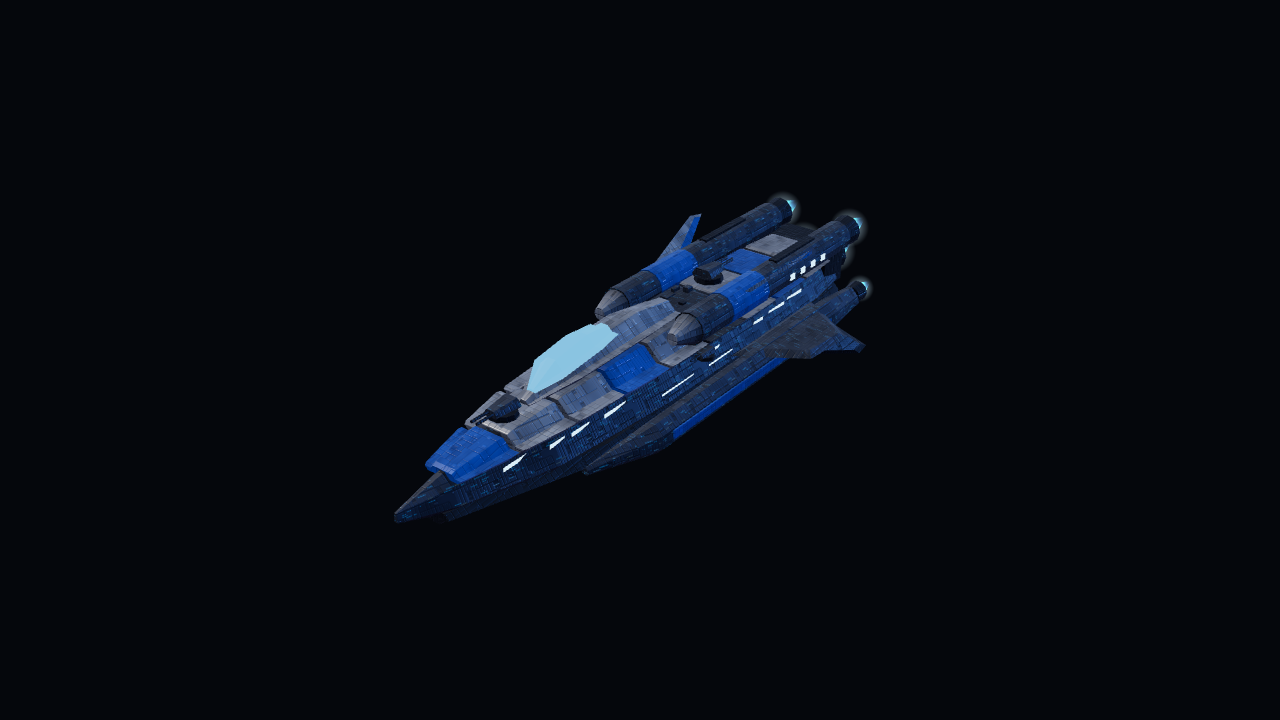
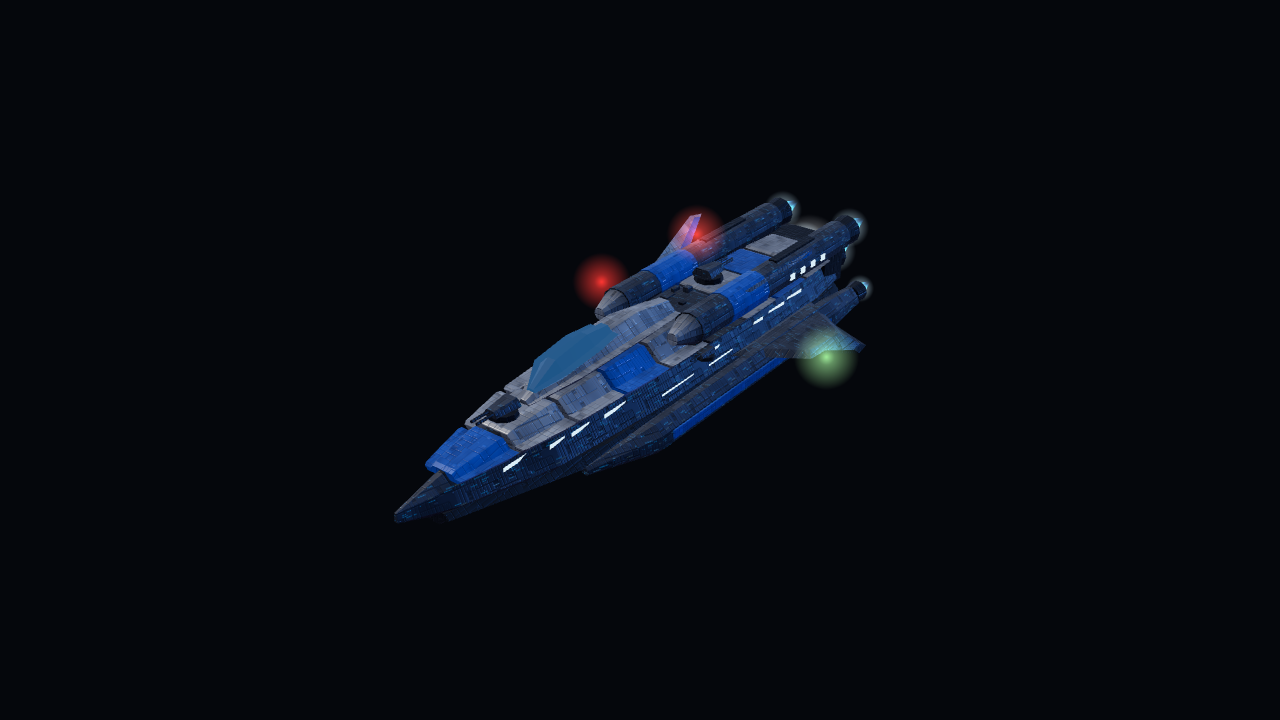
glb fleet integration: 15 hulls, far-LOD from glb, faction variant parts on glb hulls, carrier bays from hangar empties, glass canopies, no duplicate turrets (shipyard + in-game), GLB_DEFAULT go-live switch, lineup preload

diff --git a/src/glbhulls.js b/src/glbhulls.js
@@ -8,32 +8,34 @@ import * as THREE from 'three';
 import { GLTFLoader } from '../vendor/addons/loaders/GLTFLoader.js';
 import { MeshoptDecoder } from '../vendor/addons/libs/meshopt_decoder.module.js';
 
-export const GLB_IDS = ['scout', 'interceptor', 'strike', 'corvette', 'gunship', 'frigate', 'destroyer', 'dreadnought'];
+export const GLB_IDS = ['scout', 'interceptor', 'strike', 'bomber', 'corvette', 'gunship', 'engineer', 'explorer', 'frigate', 'destroyer', 'icarrier', 'cruiser', 'battlecruiser', 'fleetcarrier', 'dreadnought'];
+// GO-LIVE SWITCH: set to true to make the Blender hulls the default for everyone (?hulls=proc still opts out).
+export const GLB_DEFAULT = false;
 export const GLB_UNIT = 1 / 5; // Blender metres -> game units (1 u = 5 m)
 const P = new URLSearchParams(typeof location !== 'undefined' ? location.search : '');
 const q = P.get('hulls');
 try { if (q === 'glb' || q === 'proc') localStorage.setItem('sf-hulls', q); } catch (e) { /* private mode */ }
 let stored = null; try { stored = localStorage.getItem('sf-hulls'); } catch (e) { /* */ }
-export const GLB = { enabled: q ? q === 'glb' : stored === 'glb', cache: {}, failed: {}, stats: {}, loading: null };
+export const GLB = { enabled: q ? q === 'glb' : stored ? stored === 'glb' : GLB_DEFAULT, cache: {}, failed: {}, stats: {}, loading: null };
 
 export function preloadGlbHulls(ids = GLB_IDS, base = 'models/', timeoutMs = 15000) {
   if (GLB.loading) return GLB.loading;
   const loader = new GLTFLoader(); loader.setMeshoptDecoder(MeshoptDecoder);
   const one = (id) => new Promise((res) => {
     const t = setTimeout(() => { GLB.failed[id] = 'timeout'; res(); }, timeoutMs);
-    loader.load(base + id + '.glb?v=bt2', (g) => { clearTimeout(t); try { GLB.cache[id] = prep(g.scene); } catch (e) { GLB.failed[id] = String(e); } res(); },
+    loader.load(base + id + '.glb?v=bt3', (g) => { clearTimeout(t); try { GLB.cache[id] = prep(g.scene); } catch (e) { GLB.failed[id] = String(e); } res(); },
       undefined, (e) => { clearTimeout(t); GLB.failed[id] = String(e && e.message || e); console.warn('glb hull fallback', id, e); res(); });
   });
   GLB.loading = Promise.all(ids.map(one)).then(() => GLB);
   return GLB.loading;
 }
 function prep(scene) {
-  scene.updateMatrixWorld(true); const engines = [], hard = []; let tris = 0; const meshes = [];
+  scene.updateMatrixWorld(true); const engines = [], hard = [], bays = []; let tris = 0; const meshes = [];
   const v = new THREE.Vector3();
   scene.traverse((o) => {
     if (o.isMesh) { meshes.push(o); const gm = o.geometry; tris += (gm.index ? gm.index.count : gm.attributes.position.count) / 3; }
-    else if (/^engine_/.test(o.name) || /^hard_/.test(o.name)) { o.getWorldPosition(v); const s = (o.userData && o.userData.size) || o.scale.x;
-      const p = { x: v.x * GLB_UNIT, y: v.y * GLB_UNIT, z: v.z * GLB_UNIT, r: ((o.userData && o.userData.size) || 1) * GLB_UNIT }; (o.name[0] === 'e' ? engines : hard).push(p); }
+    else if (/^(engine|hard|bay)_/.test(o.name)) { o.getWorldPosition(v);
+      const p = { x: v.x * GLB_UNIT, y: v.y * GLB_UNIT, z: v.z * GLB_UNIT, r: ((o.userData && o.userData.size) || 1) * GLB_UNIT }; (o.name[0] === 'e' ? engines : o.name[0] === 'b' ? bays : hard).push(p); }
   });
   // bake to plain float geometry in game units at identity transforms: the damage shader works in object space
   // (vDmgP = position), so quantized/scaled meshopt nodes would put its noise at the wrong scale
@@ -46,24 +48,47 @@ function prep(scene) {
     g.applyMatrix4(new THREE.Matrix4().multiplyMatrices(S, m.matrixWorld)); g.computeBoundingSphere();
     const mm = new THREE.Mesh(g, m.material); mm.name = m.name; out.add(mm);
   }
-  return { scene: out, engines, hard, tris: Math.round(tris), meshes: meshes.length };
+  return { scene: out, engines, hard, bays, tris: Math.round(tris), meshes: meshes.length };
 }
 const SLOT = { H: 'H', P: 'P', D: 'D', A: 'A', C: 'W', W: 'Wn', G: 'G' };
 // glb meshes carry baked AO / panel-tint vertex colours: they get a per-material clone with vertexColors on, a little
 // less metalness and a lift in base colour, so the stacked decks and plate seams read under the game's single sun
 // (the shared procedural materials can't turn vertexColors on: meshes without a colour attribute would go black)
 const VC = new WeakMap();
+let GLASS = null; // proper canopy glass for glb hulls (the scheme 'W' material is a warm lit-window tone on some paints)
+function glass() {
+  return GLASS ||= new THREE.MeshStandardMaterial({ name: 'glbGlass', color: 0x0d1828, metalness: 0.9, roughness: 0.07, emissive: new THREE.Color(0.05, 0.16, 0.34), emissiveIntensity: 0.55, envMapIntensity: 1.8 });
+}
+// hide a bolt-on turret's own meshes but keep the object (aim / muzzle origin); LOD toggles only direct children,
+// so hidden grandchildren stay hidden when the hull comes back from the far LOD
+export function hideTurret(t) { t.traverse((o) => { if (o !== t && (o.isMesh || o.isSprite)) o.visible = false; }); t.userData.glbHidden = true; }
+// far LOD from the glb: one merged, vertex-coloured, non-indexed geometry per hull + paint (windows/glass dropped)
+const LO = new Map();
+function makeLo(id, c, M, key) {
+  const k = id + ':' + key; if (LO.has(k)) return LO.get(k);
+  const pos = [], nor = [], col = []; const cc = new THREE.Color();
+  for (const m of c.scene.children) {
+    const slot = m.material && m.material.name; if (slot === 'W' || slot === 'C') continue;
+    const base = M[SLOT[slot] || 'H'] || M.H; cc.copy(base.color || new THREE.Color(1, 1, 1));
+    if (base.isMeshBasicMaterial) { const mx = Math.max(cc.r, cc.g, cc.b, 1); cc.multiplyScalar(1 / mx); } else cc.multiplyScalar(1.1);
+    const g = m.geometry.index ? m.geometry.toNonIndexed() : m.geometry; const P = g.attributes.position, N = g.attributes.normal, V = g.attributes.color;
+    for (let i = 0; i < P.count; i++) { pos.push(P.getX(i), P.getY(i), P.getZ(i)); nor.push(N.getX(i), N.getY(i), N.getZ(i)); const a = V ? V.getX(i) : 1; col.push(cc.r * a, cc.g * a, cc.b * a); }
+  }
+  const g = new THREE.BufferGeometry(); g.setAttribute('position', new THREE.Float32BufferAttribute(pos, 3)); g.setAttribute('normal', new THREE.Float32BufferAttribute(nor, 3)); g.setAttribute('color', new THREE.Float32BufferAttribute(col, 3));
+  g.computeBoundingSphere(); g.userData.shared = true; LO.set(k, g); return g;
+}
 function vcMat(m) {
   if (!m || !m.isMeshStandardMaterial) return m; let c = VC.get(m); if (c) return c;
   c = m.clone(); c.vertexColors = true; c.metalness = Math.min(c.metalness, 0.62); c.color.multiplyScalar(1.3); c.envMapIntensity = (m.envMapIntensity || 1) * 1.15;
   c.name = (m.name || '') + '+vc'; VC.set(m, c); return c;
 }
 // replace the procedural meshes of a built hull group with the glb; returns {engines, hard} in game units or null
-export function applyGlb(id, group, M, engR) {
+export function applyGlb(id, group, M, engR, schemeKey) {
   if (!GLB.enabled) return null; const c = GLB.cache[id]; if (!c) return null;
-  for (let i = group.children.length - 1; i >= 0; i--) group.remove(group.children[i]);
+  for (let i = group.children.length - 1; i >= 0; i--) if (group.children[i].name !== 'navLights') group.remove(group.children[i]);
   const root = c.scene.clone(true); root.name = 'glb:' + id;
-  root.traverse((o) => { if (!o.isMesh) return; const n = o.material && o.material.name; const key = SLOT[n] || 'H'; const base = M[key] || M.H; o.material = o.geometry.attributes.color ? vcMat(base) : base; o.castShadow = o.receiveShadow = false; });
+  root.traverse((o) => { if (!o.isMesh) return; const n = o.material && o.material.name; const key = SLOT[n] || 'H'; const base = M[key] || M.H; o.material = n === 'C' ? glass() : o.geometry.attributes.color ? vcMat(base) : base; o.castShadow = o.receiveShadow = false; });
   group.add(root);
-  return { engines: c.engines.map((e) => ({ ...e, r: e.r || engR || 0.3 })), hard: [...c.hard].sort((a, b) => b.r - a.r).map((h) => ({ x: h.x, y: h.y, z: h.z, size: h.r * 1.4 })) };
+  return { engines: c.engines.map((e) => ({ ...e, r: e.r || engR || 0.3 })), hard: [...c.hard].sort((a, b) => b.r - a.r).map((h) => ({ x: h.x, y: h.y, z: h.z, size: h.r * 1.4 })),
+    bays: c.bays.map((b) => ({ x: b.x, y: b.y, z: b.z, size: b.r })), lo: makeLo(id, c, M, schemeKey || 'x') };
 }

diff --git a/src/hulls.js b/src/hulls.js
@@ -4,7 +4,7 @@
 import * as THREE from 'three';
 import { Kit, materials, hullTextures, makeTurret } from './models.js?v=9';
 import { mulberry } from './util.js?v=9';
-import { applyGlb } from './glbhulls.js?v=9';
+import { applyGlb, hideTurret } from './glbhulls.js?v=9';
 
 export const UNIT_M = 5;
 export const HULL_CLASSES = { small: 'Small Ships', medium: 'Medium Ships', large: 'Large Ships', special: 'Specialized Ships', capital: 'Capital Ships', titan: 'Titan Class' };
@@ -354,17 +354,20 @@ export function buildHull(id, opts = {}) {
   const o = B[id](k, M, rng); const v = M.scheme.variant; if (v && opts.variant !== false) variantParts(k, M, v, H);
   const lo = k.buildLo(); const group = k.build(); group.name = 'hull:' + id;
   const sc = (p) => ({ ...p, x: p.x * S, y: p.y * S, z: p.z * S, size: (p.size || 1) * S });
-  let hard = (o.hard || []).map(sc), pd = (o.pd || []).map(sc); const bays = (o.bays || []).map(sc);
+  let hard = (o.hard || []).map(sc), pd = (o.pd || []).map(sc); let bays = (o.bays || []).map(sc); let loG = lo;
   // blender-test: swap in the Blender glb (same hitboxes/stats); modelled turrets replace the bolt-on ones
-  const gl = opts.glb === false ? null : applyGlb(id, group, M, k.engines.length ? Math.max(...k.engines.map((e) => e.r)) : 0.3);
-  if (gl) { if (gl.engines.length) k.engines = gl.engines; if (gl.hard.length >= hard.length) hard = gl.hard; pd = []; group.userData.glb = true; }
+  const gl = opts.glb === false ? null : applyGlb(id, group, M, k.engines.length ? Math.max(...k.engines.map((e) => e.r)) : 0.3, sid);
+  if (gl) {
+    if (gl.engines.length) k.engines = gl.engines; if (gl.hard.length >= hard.length) hard = gl.hard; pd = []; if (gl.bays.length) bays = gl.bays; if (gl.lo) loG = gl.lo; group.userData.glb = true;
+    if (v && opts.variant !== false) { const kv = new Kit(S); kv.ch = k.ch; kv.pal = k.pal; kv.core = []; variantParts(kv, M, v, H); const vg = kv.build(); for (const c of [...vg.children]) { c.name = c.name || 'variant'; group.add(c); } } // faction variant parts on top of the glb
+  }
   if (opts.turrets === 'enemy') {
     const pal = { D: M.D, A: M.A, H: M.H }; const n = Math.max(1, Math.min(hard.length, H.slots + 2));
-    for (let i = 0; i < n; i++) { const h = hard[i]; const tu = makeTurret(H.rank >= 4 ? 'cannon' : i % 2 ? 'laser' : 'cannon', h.size, pal); tu.position.set(h.x, h.y, h.z); tu.name = 'eturret'; if (gl) tu.visible = false; group.add(tu); } // glb hulls carry modelled turrets
+    for (let i = 0; i < n; i++) { const h = hard[i]; const tu = makeTurret(H.rank >= 4 ? 'cannon' : i % 2 ? 'laser' : 'cannon', h.size, pal); tu.position.set(h.x, h.y, h.z); tu.name = 'eturret'; if (gl) hideTurret(tu); group.add(tu); } // glb hulls carry modelled turrets
     for (const h of pd) { const tu = makeTurret('cannon', h.size, pal); tu.position.set(h.x, h.y, h.z); group.add(tu); }
   }
   const segs = hullSegs(H);
-  return { group, lo, hardpoints: opts.turrets === 'enemy' ? hard.slice(0, Math.max(1, Math.min(hard.length, H.slots + 2))) : hard, pointDefense: pd, bays, engines: k.engines, length: H.len, radius: H.radius, bound: H.bound, beam: H.beam, segs, mass: H.mass, hull: id, scheme: sid, engColor: M.eng };
+  return { group, lo: loG, hardpoints: opts.turrets === 'enemy' ? hard.slice(0, Math.max(1, Math.min(hard.length, H.slots + 2))) : hard, pointDefense: pd, bays, engines: k.engines, length: H.len, radius: H.radius, bound: H.bound, beam: H.beam, segs, mass: H.mass, hull: id, scheme: sid, engColor: M.eng };
 }
 // hitbox: a chain of circles along the keel for long hulls (the bounding circle would be far too generous on a 720 m titan)
 export function hullSegs(H) {

diff --git a/blender-test.html b/blender-test.html
@@ -15,7 +15,7 @@ canvas{display:block;width:100vw;height:100vh}
 <canvas id="c"></canvas><div id="div"></div>
 <div id="ui">
  <b>Blender hull test</b>
- <label>Hull <select id="hull"><option>scout</option><option>interceptor</option><option>strike</option><option>corvette</option><option>gunship</option><option>frigate</option><option>destroyer</option><option>dreadnought</option></select></label>
+ <label>Hull <select id="hull"><option>scout</option><option>interceptor</option><option>strike</option><option>bomber</option><option>corvette</option><option>gunship</option><option>engineer</option><option>explorer</option><option>frigate</option><option>destroyer</option><option>icarrier</option><option>cruiser</option><option>battlecruiser</option><option>fleetcarrier</option><option>dreadnought</option></select></label>
  <label>Paint <select id="paint"></select></label>
  <label>View <select id="view"><option>3q</option><option>concept</option><option>side</option><option>top</option><option>front</option><option>rear</option></select></label>
  <label>Damage <input id="dmg" type="range" min="0" max="1" step="0.05" value="0"></label>
@@ -58,7 +58,7 @@ function build() {
   const id = $('hull').value, paint = $('paint').value, opts = paint.startsWith('(') ? {} : { scheme: paint };
   for (let i = 0; i < 2; i++) {
     const S = L[i]; if (S.obj) S.scene.remove(S.obj);
-    const b = buildHull(id, { ...opts, glb: i === 1 ? undefined : false }); const o = b.group;
+    const b = buildHull(id, { ...opts, glb: i === 1 ? undefined : false, turrets: P.get('enemy') === '1' ? 'enemy' : undefined }); const o = b.group;
     if ($('flames').checked) { const fl = makeFlames(b.engines, b.engColor); o.add(fl.group); S.fl = fl; } else S.fl = null;
     S.D = ensureDamage(o); S.obj = o; S.b = b; S.scene.add(o);
   }
@@ -69,7 +69,7 @@ function build() {
 window.BT = { GLB, L, build, ready: false };
 for (const k of ['hull', 'paint', 'flames']) $(k).onchange = build;
 build();
-const CV = { scout: [0.55, 0.5, 0.72], interceptor: [0.55, 0.5, 0.72], strike: [0.55, 0.5, 0.72], corvette: [0.55, 0.5, 0.72], gunship: [0.55, 0.5, 0.72], frigate: [0.82, 0.3, 0.5], destroyer: [0.82, 0.3, 0.5], dreadnought: [0.85, 0.24, 0.48] };
+const CV = { scout: [0.55, 0.5, 0.72], interceptor: [0.55, 0.5, 0.72], strike: [0.55, 0.5, 0.72], bomber: [0.55, 0.5, 0.72], corvette: [0.55, 0.5, 0.72], gunship: [0.55, 0.5, 0.72], engineer: [0.55, 0.5, 0.72], explorer: [0.55, 0.5, 0.72], frigate: [0.82, 0.3, 0.5], destroyer: [0.82, 0.3, 0.5], icarrier: [0.72, 0.38, 0.6], cruiser: [0.8, 0.3, 0.52], battlecruiser: [0.85, 0.26, 0.48], fleetcarrier: [0.8, 0.3, 0.5], dreadnought: [0.85, 0.24, 0.48] };
 const SOLO = P.get('solo') === '1'; if (SOLO) { for (const id of ['l1', 'st']) document.getElementById(id).style.display = 'none'; document.getElementById('div').style.display = 'none'; document.getElementById('l0').style.display = 'none'; document.getElementById('ui').style.display = 'none'; }
 const VIEWS = { '3q': [0.85, 0.42, 1.0], side: [1, 0.08, 0.0001], top: [0.001, 1, 0.12], front: [0.35, 0.18, 1], rear: [0.55, 0.25, -1] };
 let t0 = performance.now(), ang = 0;

diff --git a/src/game.js b/src/game.js
@@ -20,6 +20,7 @@ import { Wrecks } from './structures.js?v=9';
 import { ExplosionManager, classify, PROFILES } from './explosions.js?v=9';
 import { HULLS, HULL_IDS, buildHull, ENEMY_HULL, FLAGSHIP_HULL, FACTION_PAINT, hullSegs, MAIN_PATH } from './hulls.js?v=9';
 import { HullLOD } from './lod.js?v=9';
+import { hideTurret } from './glbhulls.js?v=9';
 import { FlightModel, SpatialHash, collideCircles, sweptCircle, TIER_MASS, massOf, rockMass, assistValue } from './physics.js?v=9';
 
 export const STATION_SCALE = 2; // v8: the home station is built at capital-ship scale
@@ -414,9 +415,10 @@ export class Game {
     hps.forEach((h, i) => {
       if (i >= st.slots) return;
       const it = this.item(this.s.equip[i]);
-      if (!it) { const mount = makeTurret('cannon', (h.size || 1) * 0.6); mount.remove(mount.userData.barrel); mount.position.set(h.x, h.y, h.z); built.group.add(mount); return; }
+      const glbMount = built.group.userData.glb && !h.aux; // Blender hulls model their own turrets at the hardpoints
+      if (!it) { const mount = makeTurret('cannon', (h.size || 1) * 0.6); mount.remove(mount.userData.barrel); mount.position.set(h.x, h.y, h.z); if (glbMount) hideTurret(mount); built.group.add(mount); return; }
       const S = itemStats(it); const key = BEH_TURRET[S.beh]; const tur = makeTurret(key, (h.size || 1) * 1.05 * (1 + it.r * 0.03));
-      tur.position.set(h.x, h.y, h.z); built.group.add(tur); rarityRing(tur, it.r, RARITIES[it.r].rgb);
+      tur.position.set(h.x, h.y, h.z); if (glbMount) hideTurret(tur); built.group.add(tur); rarityRing(tur, it.r, RARITIES[it.r].rgb);
       const w = { key: S.beh, item: it, S, turret: tur, cd: rand(0, 0.3), target: null, retarget: 0, acc: 0, tick: 0, recoil: 0, heat: 0, over: 0, bz0: tur.userData.barrel.position.z, slot: i };
       if (S.beh === 'beam') { const c = S.beamRgb; w.beam = this.makeBeam(new THREE.Color(c[0], c[1], c[2]), new THREE.Color(c[0] * 0.08, c[1] * 0.12, c[2] * 0.2)); this.scene.add(w.beam); }
       p.weapons.push(w);

diff --git a/src/preview.js b/src/preview.js
@@ -31,7 +31,7 @@ export class Preview {
     const g = new THREE.Group(); let anim = null;
     if (kind === 'ship') { // v8: arg = hull index; the hull is shown at true scale next to a ghosted Scout for reference
       const id = HULL_IDS[arg] || 'scout'; const H = HULLS[id]; const b = buildHull(id); g.add(b.group);
-      b.hardpoints.slice(0, H.slots).forEach((h, i) => { const t = makeTurret(KIT[i % KIT.length], (h.size || 1) * 1.05, 'player'); t.position.set(h.x, h.y, h.z); t.rotation.y = (i % 2 ? 0.4 : -0.4); b.group.add(t); });
+      if (!b.group.userData.glb) b.hardpoints.slice(0, H.slots).forEach((h, i) => { // glb hulls show their modelled turrets const t = makeTurret(KIT[i % KIT.length], (h.size || 1) * 1.05, 'player'); t.position.set(h.x, h.y, h.z); t.rotation.y = (i % 2 ? 0.4 : -0.4); b.group.add(t); });
       for (const h of b.pointDefense || []) { const t = makeTurret('cannon', h.size, 'player'); t.position.set(h.x, h.y, h.z); b.group.add(t); }
       const fl = makeFlames(b.engines, b.engColor); fl.mat.uniforms.uPower.value = 0.8; for (const f of fl.flames) { f.mesh.scale.set(1, 1, f.r * 3); f.core.scale.set(1, 1, f.r * 1.7); f.sprite.scale.setScalar(f.r * 3); }
       b.group.add(fl.group); g.userData.flames = fl; g.userData.nav = b.group;

diff --git a/lineup.html b/lineup.html
@@ -24,6 +24,8 @@
 import * as THREE from 'three';
 import { HULLS, HULL_IDS, UNIT_M, buildHull, FACTION_PAINT, PAINT_NAMES } from './src/hulls.js?v=9';
 import { makeFlames, animateNavLights } from './src/models.js?v=9';
+import { GLB, preloadGlbHulls } from './src/glbhulls.js?v=9';
+if (GLB.enabled) { try { await preloadGlbHulls(); } catch (e) { /* procedural fallback */ } }
 const q = new URLSearchParams(location.search); const mode = q.get('mode') || 'lineup';
 const canvas = document.getElementById('c'); const R = new THREE.WebGLRenderer({ canvas, antialias: true, preserveDrawingBuffer: true });
 R.toneMapping = THREE.ACESFilmicToneMapping; R.toneMappingExposure = 1.1; R.outputColorSpace = THREE.SRGBColorSpace; R.setPixelRatio(Math.min(2, devicePixelRatio));
